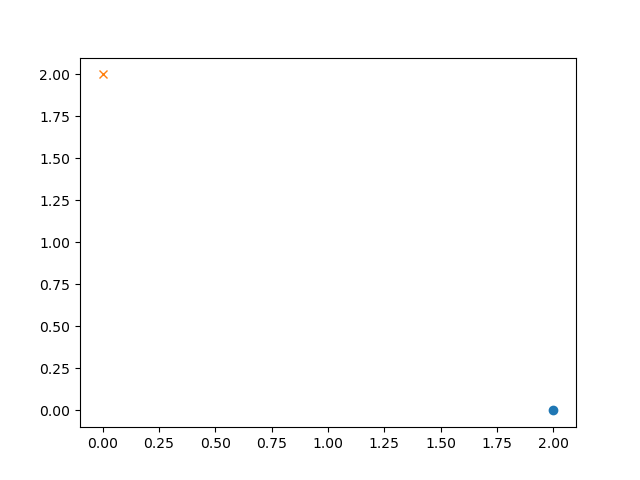
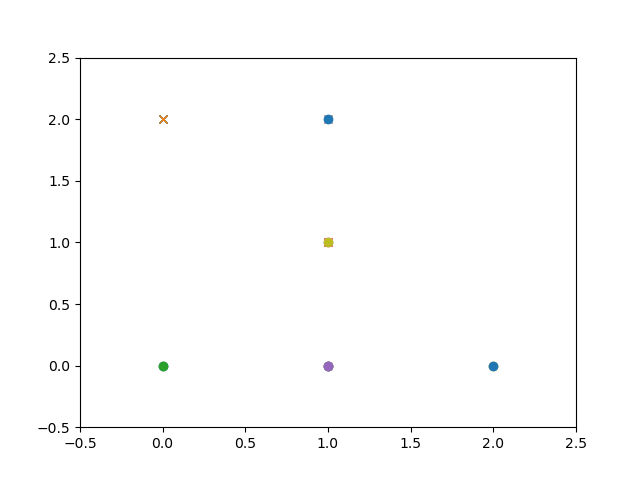
fix robot lims

diff --git a/robot_plotter.py b/robot_plotter.py
@@ -27,7 +27,10 @@ def plot_robot(policy, upMDP):
         r_pos = (robot-n*(robot//n), robot//n)
         j_pos = (jan-n*(jan//n), jan//n)
 
-        plt.plot([r_pos[0]],[r_pos[1]], 'o')
-        plt.plot([j_pos[0]],[j_pos[1]], 'x')
+        ax = plt.subplot()
+        ax.plot([r_pos[0]],[r_pos[1]], 'o')
+        ax.plot([j_pos[0]],[j_pos[1]], 'x')
+        ax.set_xlim((-0.5,2.5))
+        ax.set_ylim((-0.5,2.5))
         plt.savefig("robot_plots/{0:0=2d}.png".format(i))
-        plt.cla()
+        #plt.close()
